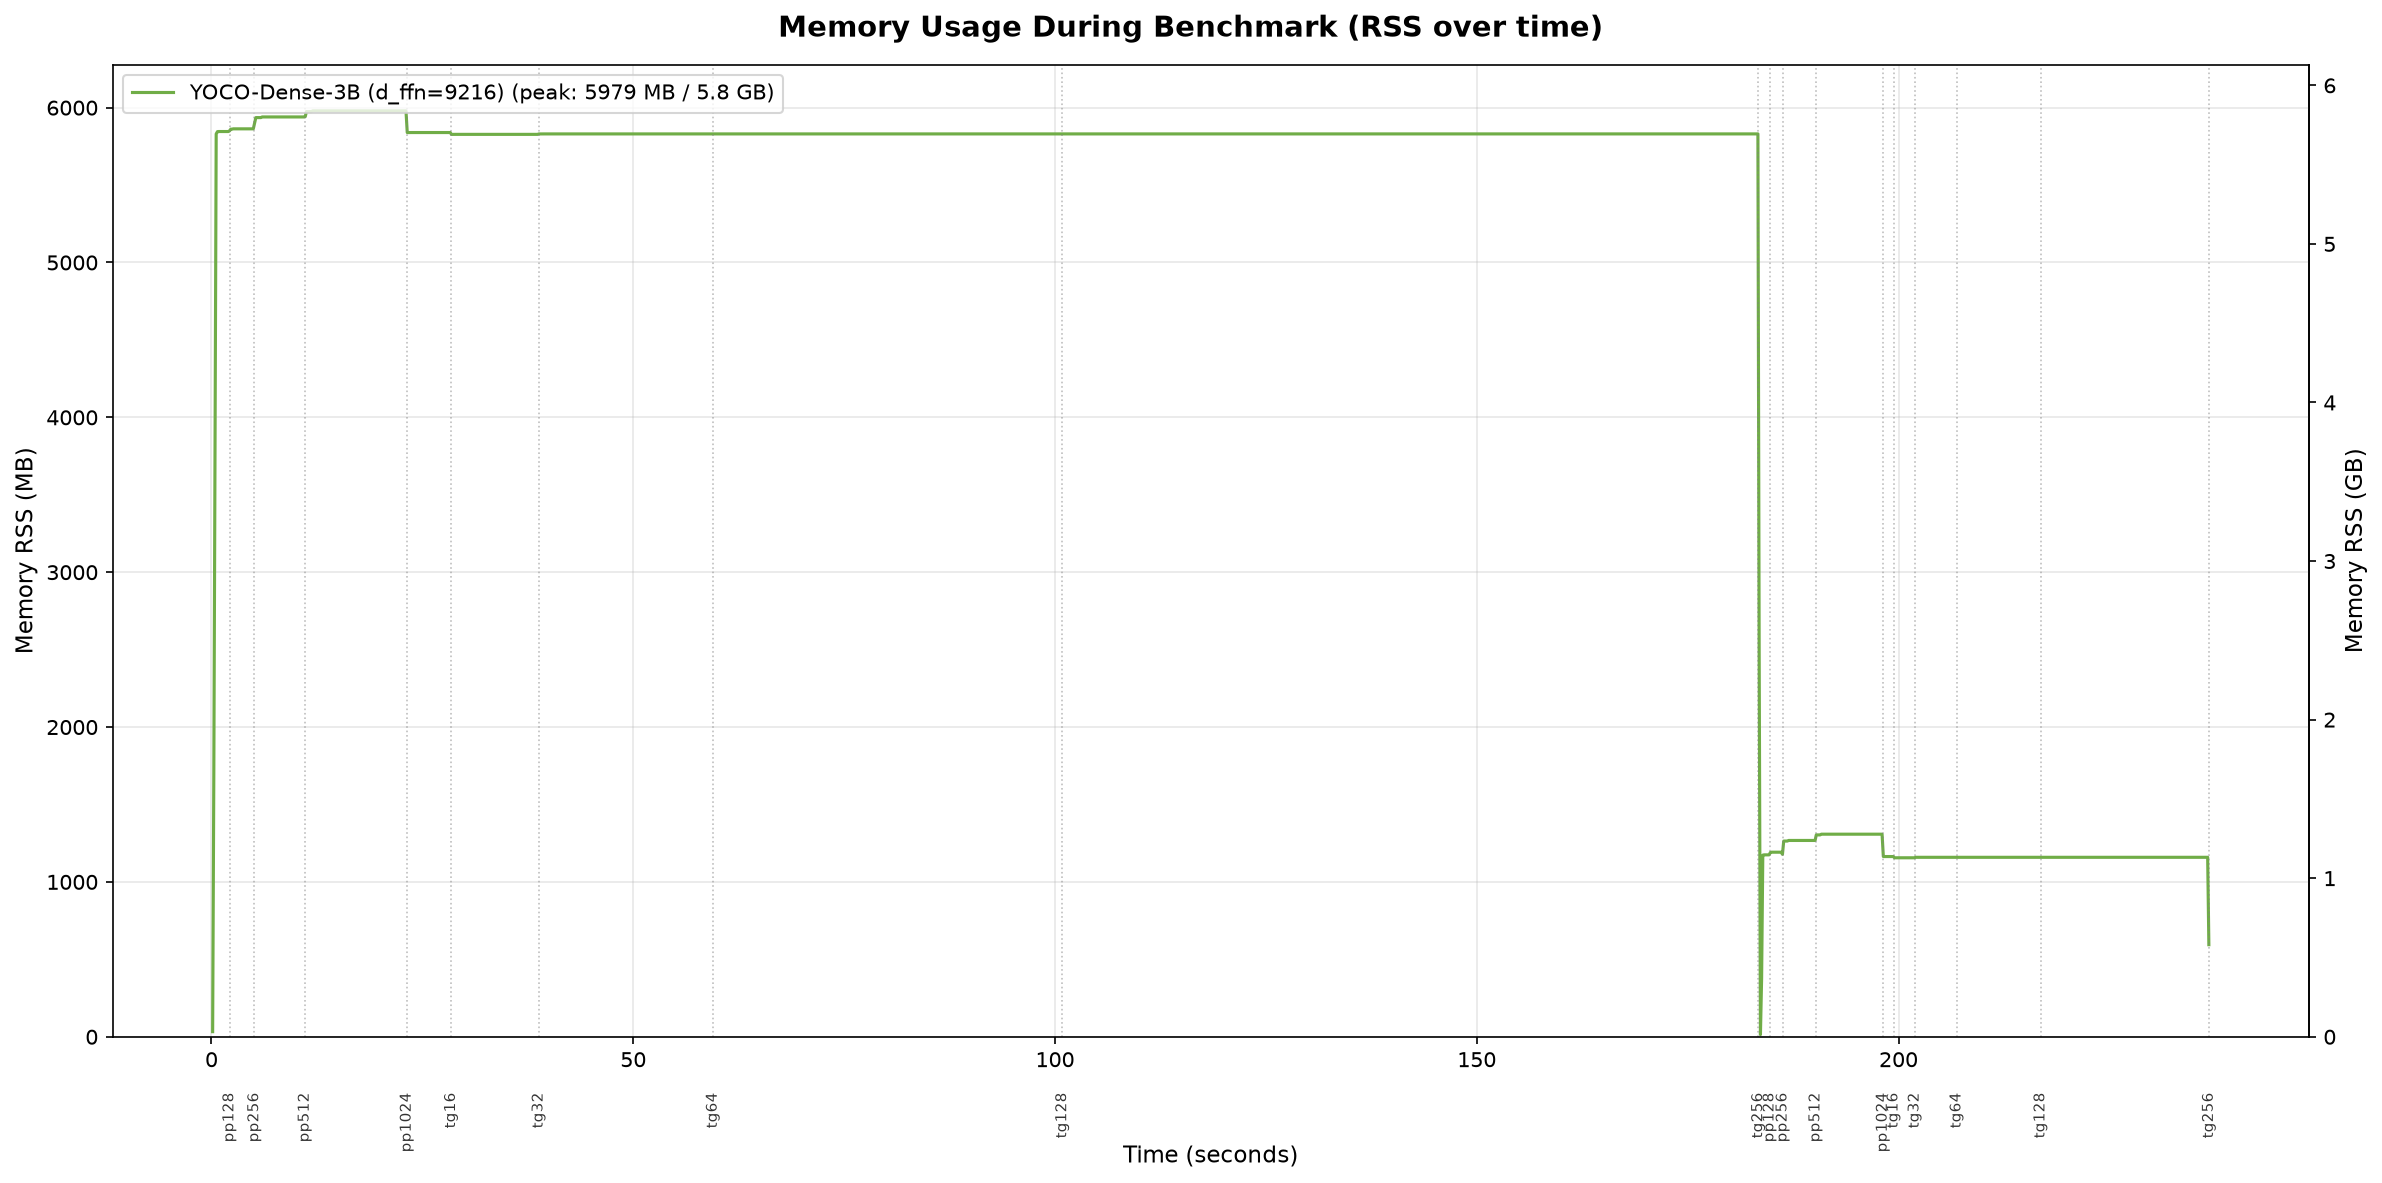
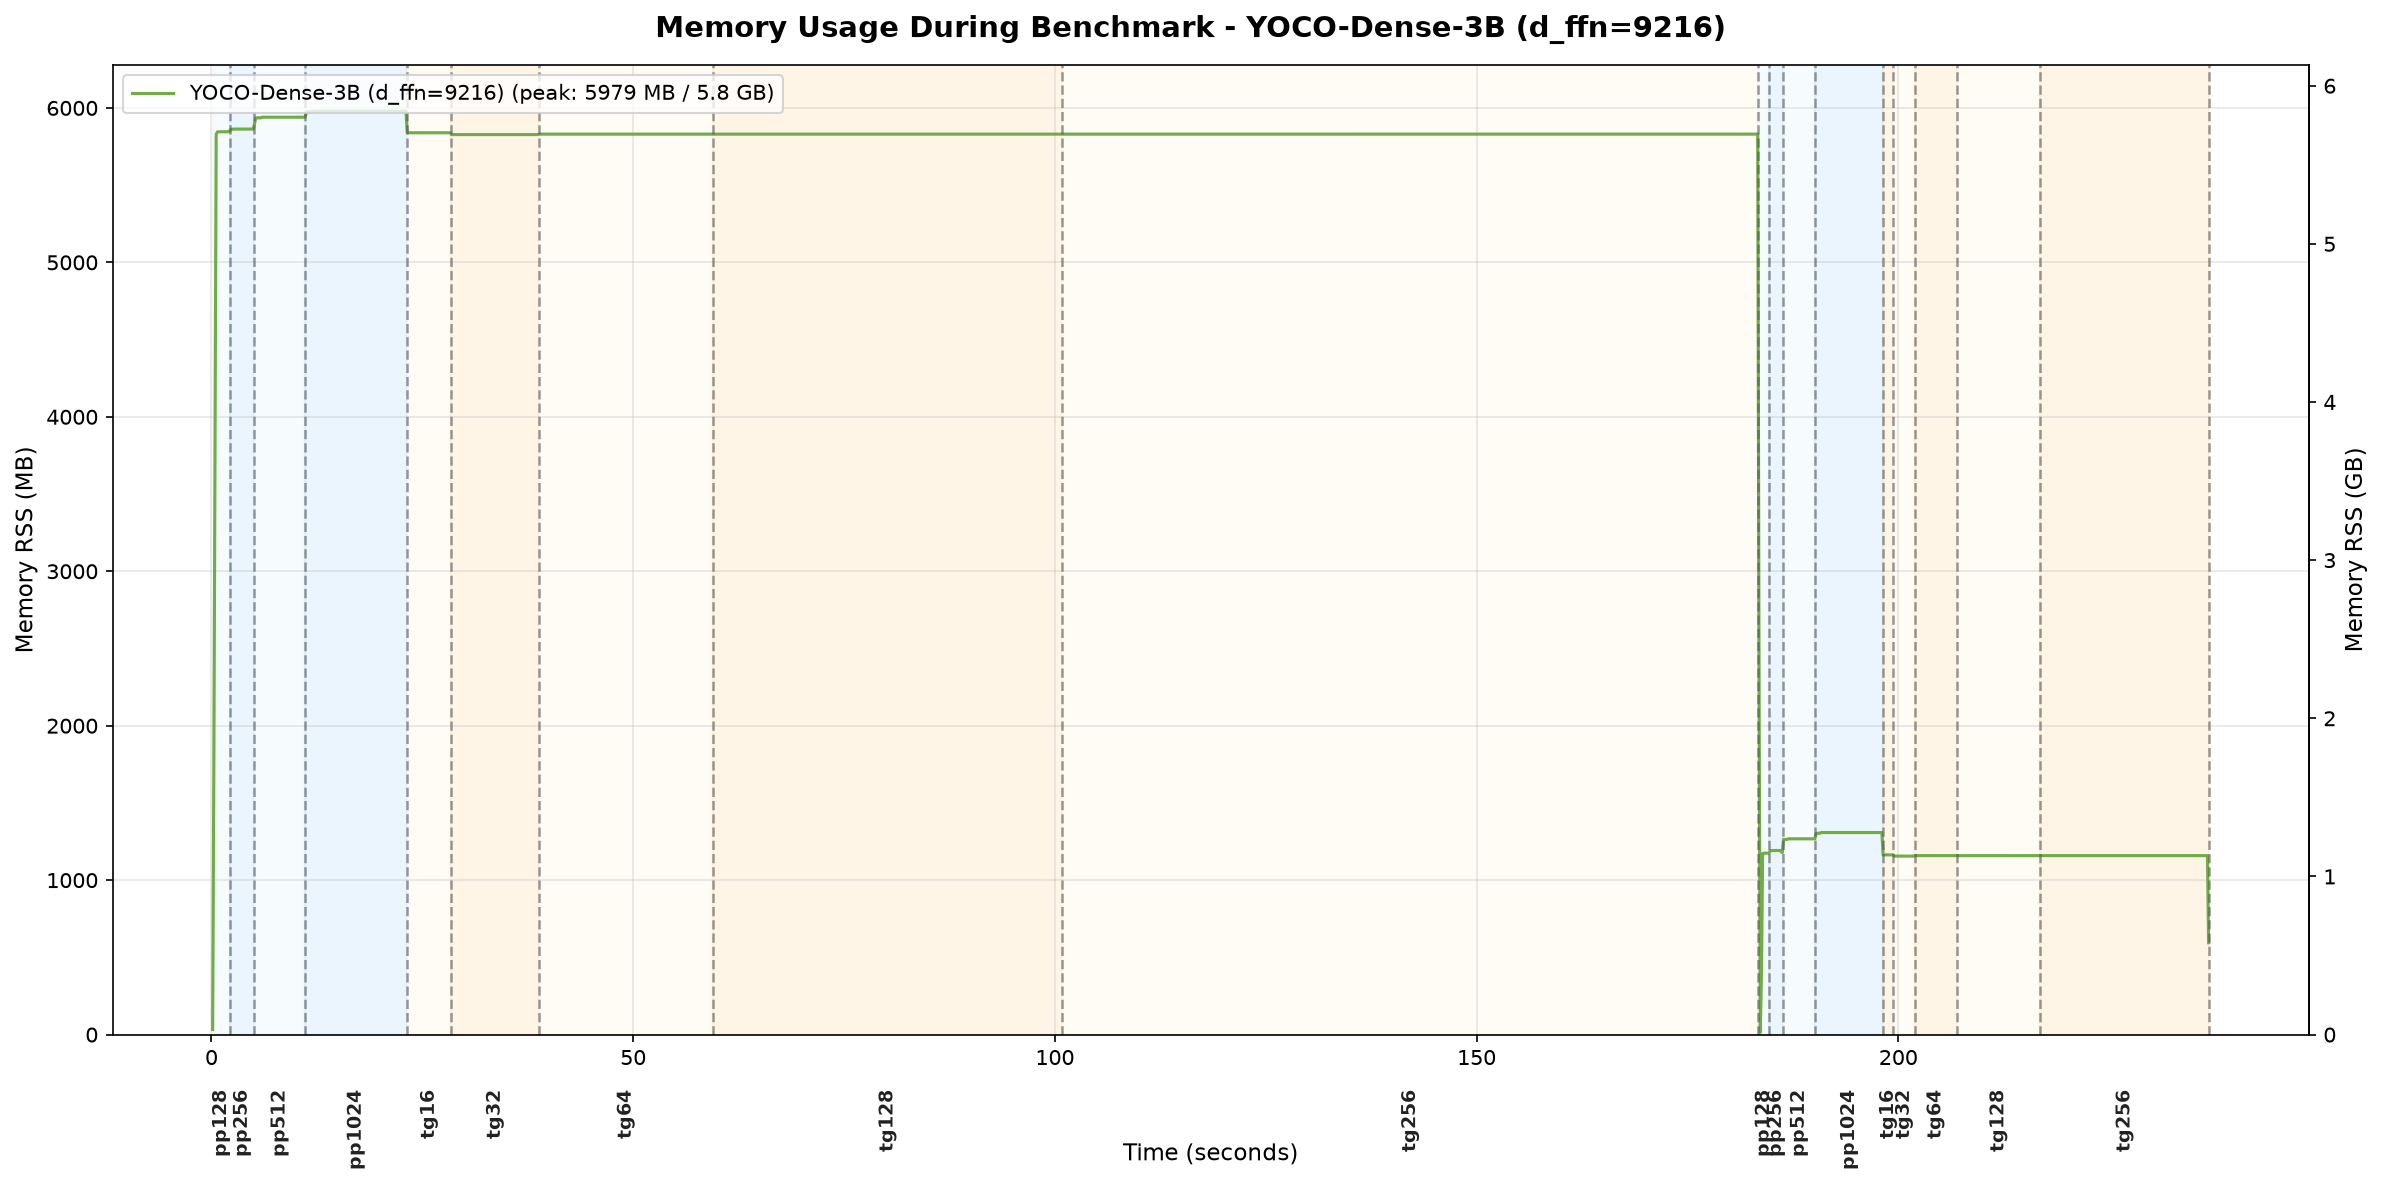
feat: improve memory usage plot with colored phase regions and centered labels
- Add alternating blue/orange background shading for prefill/decode phases
- Move sub-test labels to center of each interval with larger bold font
- Add model name to plot title
- Output filename includes CSV source name as suffix
- Support specifying CSV files as command-line arguments

diff --git a/images/plot_memory_usage.py b/images/plot_memory_usage.py
@@ -149,7 +149,13 @@ def main():
         print(f"Auto-detected {len(model_data)} model(s) from {LOGS_DIR}")
 
     fig, ax = plt.subplots(1, 1, figsize=(16, 8))
-    fig.suptitle('Memory Usage During Benchmark (RSS over time)', fontsize=14, fontweight='bold')
+    # Build title with model names
+    model_names = list(model_data.keys())
+    if model_names:
+        title = f'Memory Usage During Benchmark - {" / ".join(model_names)}'
+    else:
+        title = 'Memory Usage During Benchmark (RSS over time)'
+    fig.suptitle(title, fontsize=14, fontweight='bold')
 
     # Determine output filename suffix from input CSV files
     input_files = list(model_data.values())
@@ -198,15 +204,46 @@ def main():
             # Filter only pp/tg events (these are completion timestamps)
             test_events = [(t, lbl) for t, lbl in events
                            if not lbl.startswith('__')]
-            # Draw vertical dashed lines from bottom to top, labels on x-axis
-            for i, (t, lbl) in enumerate(test_events):
-                # Full-height vertical dashed line
-                ax.axvline(x=t, color='gray', linestyle=':', alpha=0.5, linewidth=0.8)
 
-                # Label at the bottom (on x-axis area)
-                ax.annotate(lbl, xy=(t, 0), xytext=(t, -peak * 0.06),
-                            ha='center', va='top', fontsize=7,
-                            color='#333333', rotation=90,
+            # Use alternating colors for adjacent regions
+            bg_colors_pp = ['#E3F2FD', '#BBDEFB']  # light blue shades for prefill
+            bg_colors_tg = ['#FFF3E0', '#FFE0B2']  # light orange shades for decode
+
+            # Build time intervals: from previous event to current event
+            # First interval starts at time 0 (or phase start)
+            all_boundaries = [times[0]] + [t for t, _ in test_events]
+            if phase_boundary is not None:
+                # Also add phase split as a boundary
+                pass
+
+            pp_idx = 0
+            tg_idx = 0
+            for i, (t, lbl) in enumerate(test_events):
+                # Determine start of this test's interval
+                if i == 0:
+                    t_start = times[0]
+                else:
+                    t_start = test_events[i-1][0]
+
+                # Choose background color
+                if lbl.startswith('pp'):
+                    bg = bg_colors_pp[pp_idx % 2]
+                    pp_idx += 1
+                else:
+                    bg = bg_colors_tg[tg_idx % 2]
+                    tg_idx += 1
+
+                # Fill background between intervals
+                ax.axvspan(t_start, t, alpha=0.3, color=bg, zorder=0)
+
+                # Draw vertical dashed line (thicker)
+                ax.axvline(x=t, color='#555555', linestyle='--', alpha=0.6, linewidth=1.2)
+
+                # Label at the middle of the interval, below x-axis
+                t_mid = (t_start + t) / 2
+                ax.annotate(lbl, xy=(t_mid, 0), xytext=(t_mid, -peak * 0.06),
+                            ha='center', va='top', fontsize=9, fontweight='bold',
+                            color='#222222', rotation=90,
                             annotation_clip=False)
 
     ax.set_xlabel('Time (seconds)', fontsize=11, labelpad=35)
